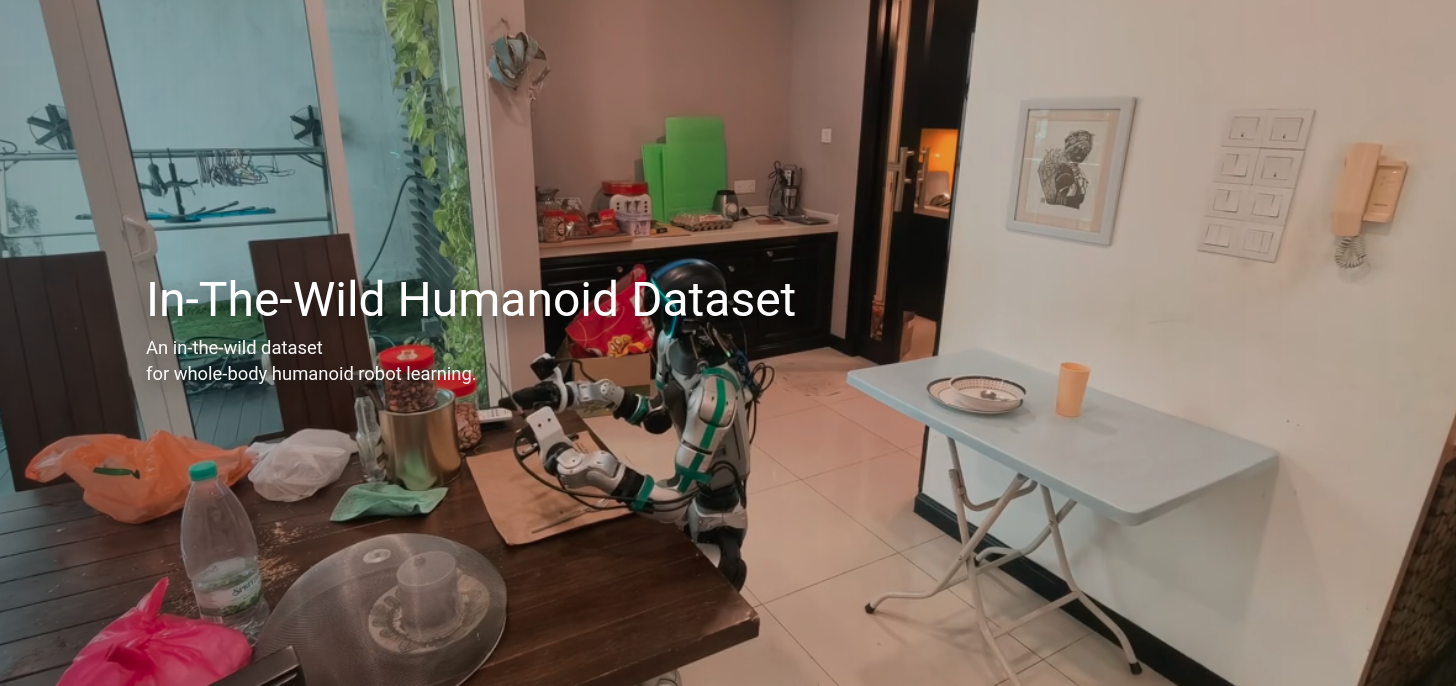
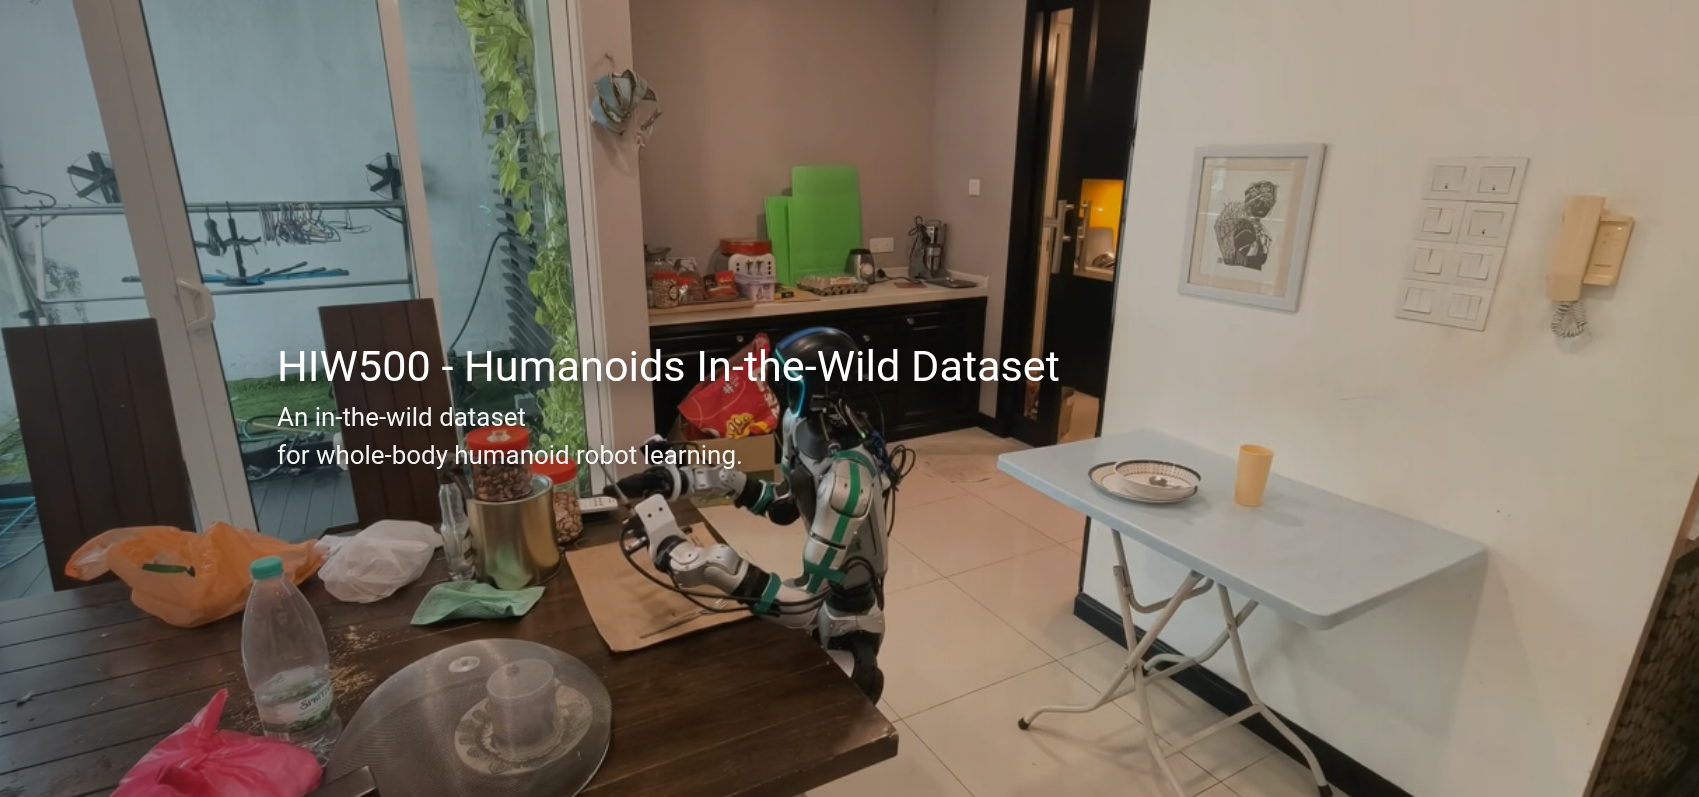
Update HIW500 dataset branding

diff --git a/index.html b/index.html
@@ -3,54 +3,54 @@
   <head>
     <meta charset="UTF-8" />
     <meta name="viewport" content="width=device-width, initial-scale=1.0" />
-    <title>In-The-Wild Humanoid Dataset</title>
+    <title>HIW500: Humanoids In-the-Wild Dataset</title>
     <meta
       name="description"
-      content="In-The-Wild Humanoid Dataset: household robot learning data with Unitree G1 whole-body manipulation."
+      content="HIW500: Humanoids In-the-Wild Dataset for household robot learning with Unitree G1 whole-body manipulation."
     />
-    <link rel="canonical" href="https://bitrobot-foundation.github.io/in-the-wild-humanoid-dataset/" />
+    <link rel="canonical" href="https://bitrobot-foundation.github.io/humanoids-in-the-wild-500-hours/" />
 
     <!-- Open Graph -->
     <meta property="og:type" content="website" />
     <meta property="og:locale" content="en_US" />
-    <meta property="og:url" content="https://bitrobot-foundation.github.io/in-the-wild-humanoid-dataset/" />
-    <meta property="og:title" content="In-The-Wild Humanoid Dataset | BitRobot Foundation" />
+    <meta property="og:url" content="https://bitrobot-foundation.github.io/humanoids-in-the-wild-500-hours/" />
+    <meta property="og:title" content="HIW500: Humanoids In-the-Wild Dataset | BitRobot Foundation" />
     <meta
       property="og:description"
       content="A 500+ hour, 23K+ episode dataset for whole-body humanoid robot learning, collected with Unitree G1 teleoperation across 10+ real homes."
     />
     <meta
       property="og:image"
-      content="https://bitrobot-foundation.github.io/in-the-wild-humanoid-dataset/og-image.png"
+      content="https://bitrobot-foundation.github.io/humanoids-in-the-wild-500-hours/og-image.png"
     />
     <meta
       property="og:image:secure_url"
-      content="https://bitrobot-foundation.github.io/in-the-wild-humanoid-dataset/og-image.png"
+      content="https://bitrobot-foundation.github.io/humanoids-in-the-wild-500-hours/og-image.png"
     />
     <meta property="og:image:type" content="image/png" />
     <meta property="og:image:width" content="1456" />
     <meta property="og:image:height" content="686" />
     <meta
       property="og:image:alt"
-      content="In-The-Wild Humanoid Dataset project preview."
+      content="HIW500: Humanoids In-the-Wild Dataset project preview."
     />
     <meta property="og:site_name" content="BitRobot Foundation" />
 
     <!-- Twitter/X -->
     <meta name="twitter:card" content="summary_large_image" />
     <meta name="twitter:site" content="@BitRobotNetwork" />
-    <meta name="twitter:title" content="In-The-Wild Humanoid Dataset | BitRobot Foundation" />
+    <meta name="twitter:title" content="HIW500: Humanoids In-the-Wild Dataset | BitRobot Foundation" />
     <meta
       name="twitter:description"
       content="A 500+ hour, 23K+ episode dataset for whole-body humanoid robot learning, collected with Unitree G1 teleoperation across 10+ real homes."
     />
     <meta
       name="twitter:image"
-      content="https://bitrobot-foundation.github.io/in-the-wild-humanoid-dataset/og-image.png"
+      content="https://bitrobot-foundation.github.io/humanoids-in-the-wild-500-hours/og-image.png"
     />
     <meta
       name="twitter:image:alt"
-      content="In-The-Wild Humanoid Dataset project preview."
+      content="HIW500: Humanoids In-the-Wild Dataset project preview."
     />
     <link rel="preconnect" href="https://fonts.googleapis.com" />
     <link rel="preconnect" href="https://fonts.gstatic.com" crossorigin />
@@ -62,7 +62,7 @@
   </head>
   <body>
     <header class="topbar">
-      <div class="brand">In-The-Wild Humanoid Dataset</div>
+      <div class="brand">HIW500: Humanoids In-the-Wild Dataset</div>
       <nav aria-label="Primary navigation">
         <a href="#overview">Overview</a>
         <a href="#dataset">Dataset</a>
@@ -77,7 +77,7 @@
       </video>
       <div class="hero-overlay">
         <div class="hero-copy-block">
-          <h1>In-The-Wild Humanoid Dataset</h1>
+          <h1>HIW500 - Humanoids In-the-Wild Dataset</h1>
           <p>
             An in-the-wild dataset<br />
             for whole-body humanoid robot learning.
@@ -112,7 +112,7 @@
           <div class="section-label">Overview</div>
           <h2>Built for learning from real homes, not lab-only scenes.</h2>
           <p>
-            In-The-Wild Humanoid Dataset focuses on task execution in natural environments where layout,
+            HIW500: Humanoids In-the-Wild Dataset focuses on task execution in natural environments where layout,
             object state, lighting, clutter, and human operating style vary from episode to episode.
           </p>
           <p>
@@ -381,21 +381,15 @@
           </p>
           <p class="dataset-link-copy">
             <a
-              href="https://huggingface.co/datasets/BitRobot/In-The-Wild-Humanoid-Dataset"
+              href="https://huggingface.co/datasets/BitRobot/HIW-500"
               target="_blank"
               rel="noreferrer"
             >
               View raw dataset
             </a>
           </p>
-          <p class="dataset-link-copy">
-            <a
-              href="https://huggingface.co/datasets/BitRobot/In-The-Wild-Humanoid-Dataset-LeRobot"
-              target="_blank"
-              rel="noreferrer"
-            >
-              View dataset in LeRobot format
-            </a>
+          <p class="dataset-link-copy dataset-link-copy-disabled">
+            View dataset in LeRobot format (Coming Soon)
           </p>
         </div>
       </section>
@@ -403,11 +397,11 @@
       <section class="citation stacked-section" id="citation">
         <div class="section-body">
           <div class="section-label">Citation</div>
-          <pre><code>@misc{in_the_wild_humanoid_dataset_2026,
-  title={In-The-Wild Humanoid Dataset: A Large-Scale In-The-Wild Dataset for Robot Learning},
+          <pre><code>@misc{hiw500_2026,
+  title={HIW500: Humanoids In-the-Wild Dataset for Robot Learning},
   author={BitRobot and Unitree and Hugging Face},
   year={2026},
-  howpublished={\url{https://bitrobot-foundation.github.io/in-the-wild-humanoid-dataset/}}
+  howpublished={\url{https://bitrobot-foundation.github.io/humanoids-in-the-wild-500-hours/}}
 }</code></pre>
         </div>
       </section>
@@ -425,7 +419,7 @@
     </main>
 
     <footer class="site-footer">
-      <p>© 2026 In-The-Wild Humanoid Dataset</p>
+      <p>© 2026 HIW500: Humanoids In-the-Wild Dataset</p>
       <a href="mailto:[email redacted]?subject=Dataset%20Inquiry">[email redacted]</a>
     </footer>
 

diff --git a/styles.css b/styles.css
@@ -142,7 +142,7 @@ h1 {
 .hero-overlay h1 {
   margin: 0;
   color: #ffffff;
-  font-size: clamp(1.45rem, 3.1vw, 3rem);
+  font-size: clamp(1.15rem, 2.25vw, 2.15rem);
   font-weight: 400;
   line-height: 1.02;
   white-space: nowrap;
@@ -293,6 +293,11 @@ h3 {
   color: var(--accent-dark);
   font-weight: 800;
   text-decoration: none;
+}
+
+.dataset-link-copy-disabled {
+  color: var(--accent-dark);
+  font-weight: 800;
 }
 
 .overview-stats {
@@ -1352,7 +1357,7 @@ code {
   }
 
   .hero-overlay h1 {
-    font-size: 2.35rem;
+    font-size: 1.7rem;
     white-space: normal;
   }
 

diff --git a/README.md b/README.md
@@ -3,7 +3,6 @@
 From this folder:
 
 ```bash
-cd /home/user/Workspace/humanoid-dataset-lerobot/in-the-wild-humanoid-dataset
 python3 -m http.server 8080
 ```
 
@@ -13,5 +12,5 @@ Then open:
 
 ## Notes
 
-- Static project page for the In-The-Wild Humanoid Dataset.
+- Static project page for HIW500: Humanoids In-the-Wild Dataset.
 - The Rerun demo uses the fixed S3 key `humanoid-in-homes-live-demo.rrd`; update that object to swap demos without editing the page.